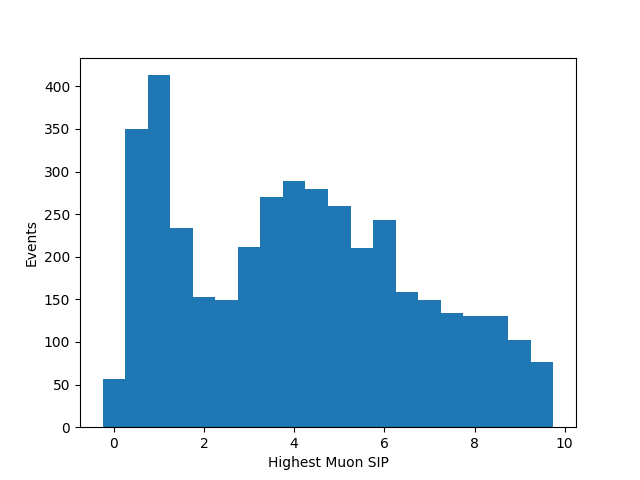
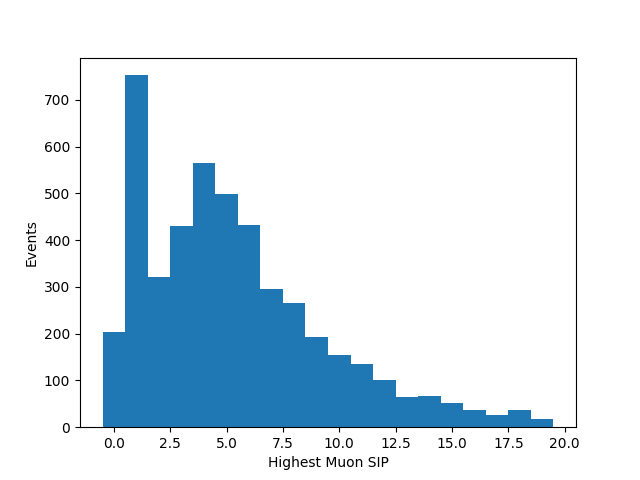
Adusted binning for SIP plots

diff --git a/n00dle.py b/n00dle.py
@@ -213,9 +213,9 @@ def trig(files):
         'hptplot':      Hist(80,(-0.5,79.5),'Highest Muon pT','Events','upplots/TrigHpTplot'),
         'ptplot':       Hist(80,(-0.5,79.5),'Highest Muon pT','Events','upplots/TrigpTplot'),
         'ratioptplot':  Hist(80,(-0.5,79.5),'Highest Muon pT','HLT_Mu7_IP4 / Events with Muons of sip > 5','upplots/TrigRatiopTPlot'),
-        'sipplot':      Hist(20,(-0.25,9.75),'Highest Muon SIP', 'Events', 'upplots/TrigSIPplot'),
-        'hsipplot':     Hist(20,(-0.25,9.75),'Highest Muon SIP', 'Events', 'upplots/TrigHSIPplot'),
-        'ratiosipplot': Hist(20,(-0.25,9.75),'Highest Muon SIP', 'HLT_Mu7_IP4 / Events with muons of sip > 5', 'upplots/TrigRatioSIPplot')
+        'sipplot':      Hist(20,(-0.5,19.5),'Highest Muon SIP', 'Events', 'upplots/TrigSIPplot'),
+        'hsipplot':     Hist(20,(-0.5,19.5),'Highest Muon SIP', 'Events', 'upplots/TrigHSIPplot'),
+        'ratiosipplot': Hist(20,(-0.5,19.5),'Highest Muon SIP', 'HLT_Mu7_IP4 / Events with muons of sip > 5', 'upplots/TrigRatioSIPplot')
     }
     ## Create an internal figure for pyplot to write to
     plt.figure(1)
